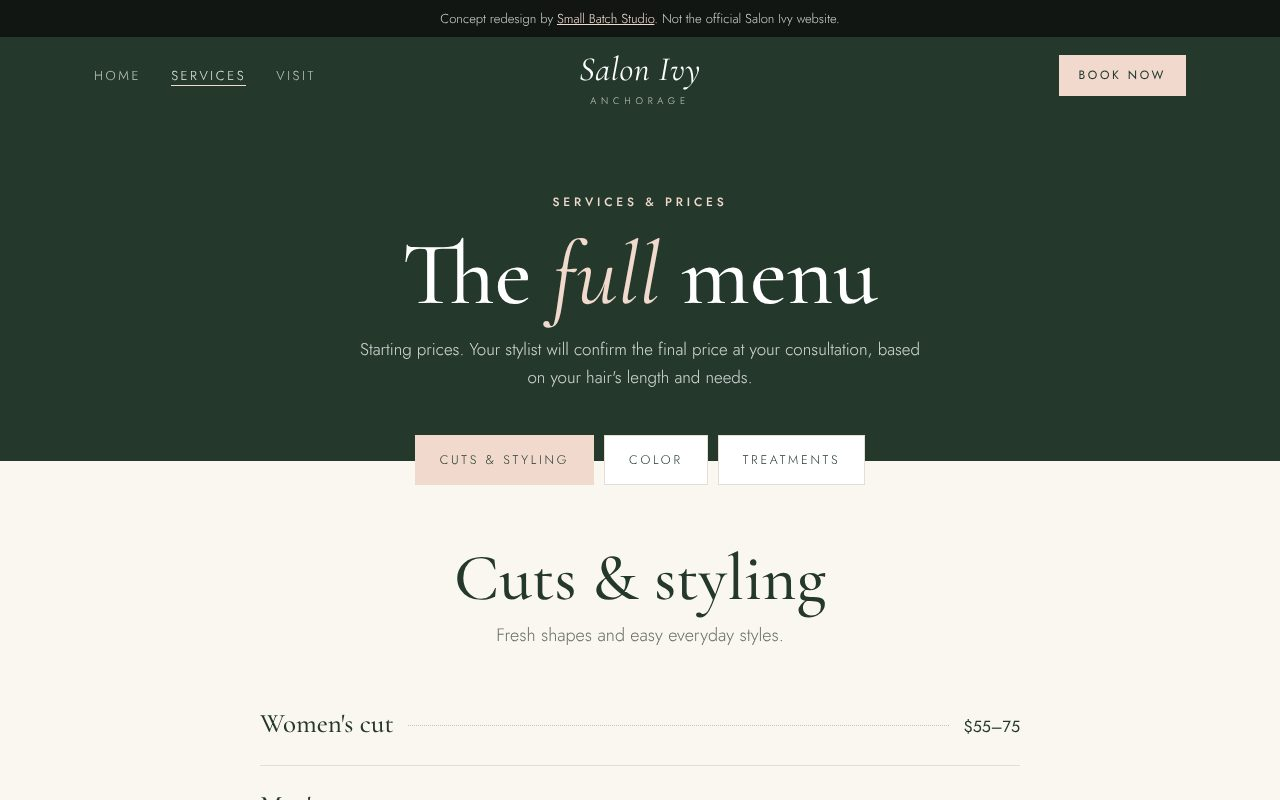
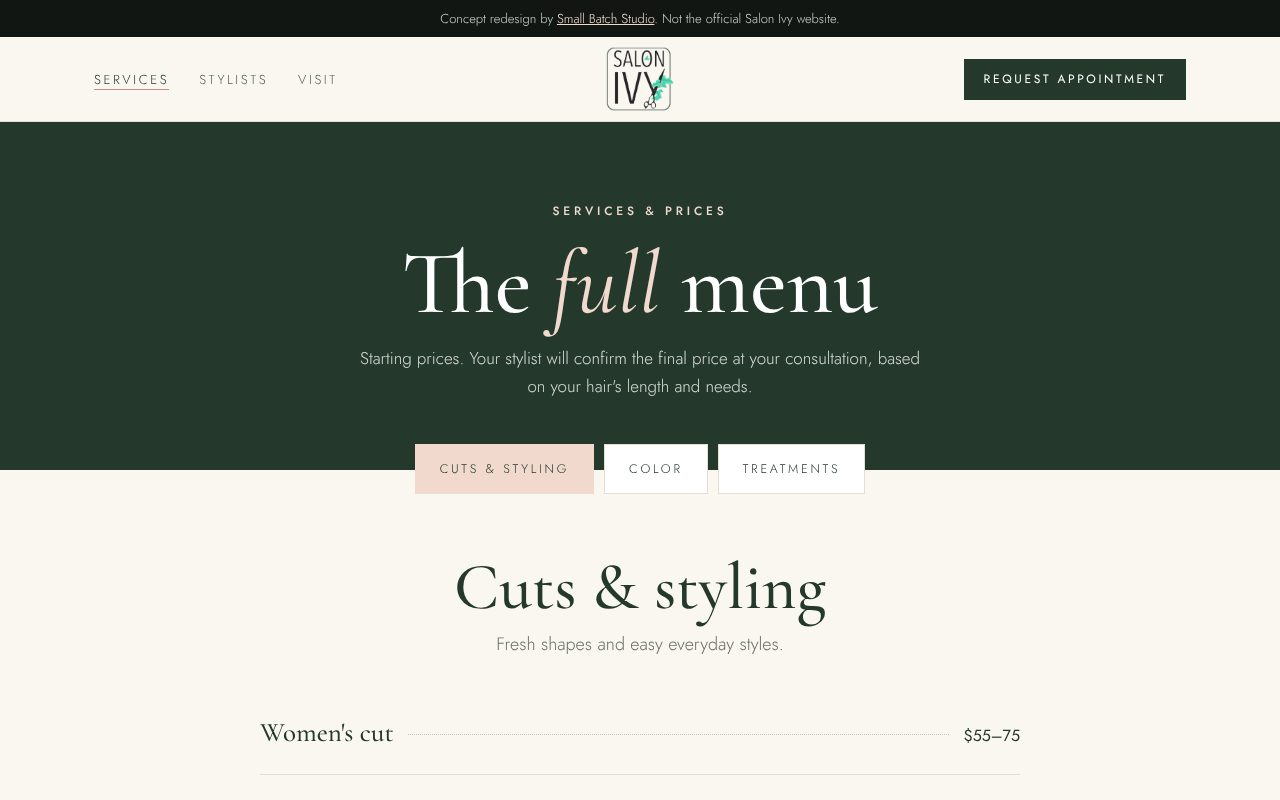
Refresh Salon Ivy screenshots with real photos
Claude-Session: https://claude.ai/code/session_01LAhieTi8CSK63STHDSNAha

diff --git a/index.html b/index.html
@@ -439,8 +439,8 @@
         <p>A family-run Vietnamese restaurant: online ordering up front, a full menu that's easy on phones, and their story told properly.</p>
       </div>
       <div class="case label" data-case="ivy">
-        <div class="shot"><div class="dots"><i></i><i></i><i></i></div><div class="frames-w"><img src="work-ivy.jpg" alt="Salon Ivy concept: Home" loading="lazy" class="on"><img src="work-ivy-services.jpg" alt="Salon Ivy concept: Services" loading="lazy"><img src="work-ivy-about.jpg" alt="Salon Ivy concept: About" loading="lazy"></div></div>
-        <div class="ptabs"><button class="on" data-i="0">Home</button><button data-i="1">Services</button><button data-i="2">About</button></div>
+        <div class="shot"><div class="dots"><i></i><i></i><i></i></div><div class="frames-w"><img src="work-ivy.jpg" alt="Salon Ivy concept: Home" loading="lazy" class="on"><img src="work-ivy-services.jpg" alt="Salon Ivy concept: Services" loading="lazy"><img src="work-ivy-about.jpg" alt="Salon Ivy concept: Stylists" loading="lazy"></div></div>
+        <div class="ptabs"><button class="on" data-i="0">Home</button><button data-i="1">Services</button><button data-i="2">Stylists</button></div>
         <div class="no">Hair salon &middot; Anchorage</div>
         <h3>Salon Ivy</h3>
         <p>A calm, editorial salon site with a tabbed price list and a Book Now button on every page.</p>
